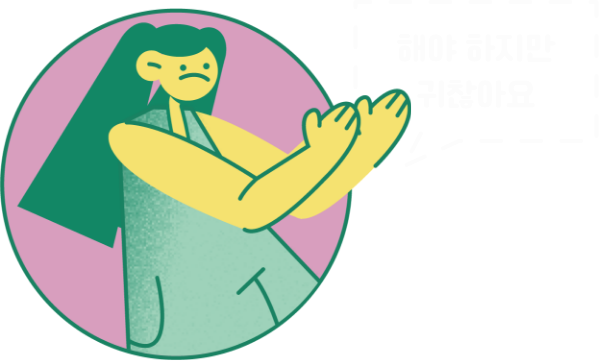
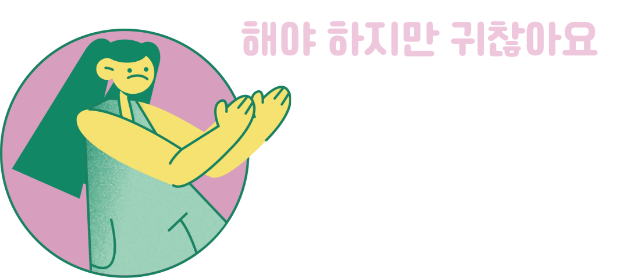
Feat : 컨텐츠 추가(제로웨이스트 관련)

diff --git a/src/pages/ZeroWasteInfo.js b/src/pages/ZeroWasteInfo.js
@@ -1,10 +1,13 @@
 import React from 'react';
 import styled from 'styled-components';
 import Typography from '../elements/Typography';
-import divider from '../static/images/zeroWasteInfo/pink_divider.svg';
+import divider1 from '../static/images/zeroWasteInfo/pink_divider.svg';
+import divider2 from '../static/images/zeroWasteInfo/green_divider.svg';
 import char3 from '../static/images/zeroWasteInfo/char_3.png';
 import char4 from '../static/images/zeroWasteInfo/char_4.png';
 import char5 from '../static/images/zeroWasteInfo/char_5.png';
+import callOut from '../static/images/zeroWasteInfo/callOut.png';
+
 const ZeroInfo = () => {
   return (
     <Container>
@@ -21,10 +24,35 @@ const ZeroInfo = () => {
           <br />
           느껴지시나요?
         </Typography>
-        <img src={divider} style={{ width: '60%' }} />
-        <img src={char3} style={{ width: '70%', marginTop: '15%' }} />
-        <img src={char4} style={{ width: '70%', margin: '5% 0 7% 10% ' }} />
-        <img src={char5} style={{ width: '70%', marginBottom: '5%' }} />
+        <img src={divider1} style={{ width: '60%' }} />
+        <img src={char3} style={{ width: '90%', marginTop: '15%' }} />
+        <img src={char4} style={{ width: '90%', margin: '1% 0 3% 3%' }} />
+        <img src={char5} style={{ width: '85%', marginBottom: '20%' }} />
+      </div>
+      <div
+        style={{
+          backgroundColor: '#D29BBA',
+          width: '100%',
+          height: '100vh',
+          paddingTop: '5em',
+        }}>
+        <Typography size="3.4rem" margin="5% 0 5% 0" color="white">
+          지구가 필요한 건<br />
+          바로 <span style={{ color: '#078d68' }}>우리</span>!
+        </Typography>
+        <img src={divider2} style={{ width: '70%' }} />
+        <img src={callOut} style={{ width: '85%', margin: '10% 0 10% 0' }} />
+        <Typography type="AppleSDGothicB00" color="white">
+          아직 자신은 없지만, 지구를 위하는 마음과
+          <br />
+          행동할 용기가 있는 우리 모두에게
+          <br />
+        </Typography>
+        <Typography type="AppleSDGothicB00" color="white">
+          ‘쓰레기 생산자’에서
+          <br />
+          ‘제로인구’로의 이동을 제안합니다.
+        </Typography>
       </div>
     </Container>
   );
@@ -38,6 +66,7 @@ const Container = styled.div`
   background-attachment: fixed;
   background-color: #078d68;
   overflow: hidden;
+  padding-top: 5em;
 `;
 
 export default ZeroInfo;

diff --git a/src/pages/ZeroInfo.js b/src/pages/ZeroInfo.js
@@ -23,10 +23,19 @@ const ZeroInfo = () => {
         style={{
           backgroundColor: '#078D68',
           width: '100%',
-          height: '20%',
-          marginTop: '-5%',
-        }}
-      />
+          height: '100vh',
+          marginTop: '-2em',
+          paddingTop: '5em',
+        }}>
+        <Typography color="white" type="AppleSDGothicB00">
+          제로인들을 위한 선물
+        </Typography>
+        <Typography color="white" size="3.4rem">
+          매일제로
+          <br />
+          다이어리 set
+        </Typography>
+      </div>
     </Container>
   );
 };
@@ -39,6 +48,7 @@ const Container = styled.div`
   background-attachment: fixed;
   background-color: white;
   overflow: hidden;
+  margin-top: 5em;
 `;
 
 export default ZeroInfo;

diff --git a/src/pages/Main.js b/src/pages/Main.js
@@ -18,8 +18,8 @@ const Main = () => {
       <Container>
         <Home />
         <ProblemInfo />
-        <ZeroInfo />
         <ZeroWasteInfo />
+        <ZeroInfo />
       </Container>
     </div>
   );

diff --git a/src/index.css b/src/index.css
@@ -13,6 +13,6 @@ code {
 }
 
 html {
-  letter-spacing: -0.12em;
+  letter-spacing: -0.01rem;
   font-size: 62.5%;
 }
